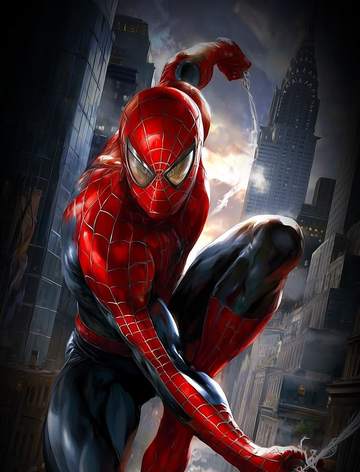
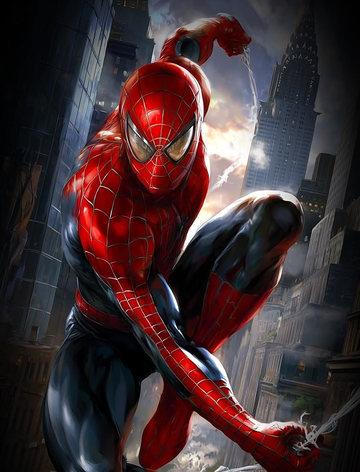
Spider-Man 2: shift portrait down to show more arm
User direction: "move the spiderman portrait a little down to see
his arm more but make sure it doesn't cut off the hand in the back."

Bumped Spider-Man 2's top-bias crop from 0.15 → 0.25 — y1 went
76 → 126, so an extra 50 px shears off the top sky / web trail
above the reaching back hand, which lets the entire body + front
arm with the web-shoot pose drop ~16 px lower in the rendered
frame. The back hand itself (which sits in the top ~20 % of the
source) keeps its full silhouette; only the empty sky above it
and the very tip of the web tail get clipped.

Cache: _CARD_ART_VERSION 27→28, ui.js → v579.

diff --git a/index.html b/index.html
@@ -719,7 +719,7 @@
   <script src="https://unpkg.com/peerjs@1.5.4/dist/peerjs.min.js"></script>
   <script src="multiplayer.js?v=5"></script>
   <script src="card-art-manifest.js?v=11"></script>
-  <script src="ui.js?v=578"></script>
+  <script src="ui.js?v=579"></script>
   <script src="logger.js?v=5"></script>
   <!-- Always-on crash capture. Hooks window.onerror +
        unhandledrejection, surfaces a "Copy bug report" button when

diff --git a/ui.js b/ui.js
@@ -13,7 +13,7 @@ const UI = {
   // cached PNGs (which don't have built-in cache busters since they're
   // referenced via background-image url() and not the index.html
   // version-suffix system). Bump this every time you regen art.
-  _CARD_ART_VERSION: 27,
+  _CARD_ART_VERSION: 28,
 
   // =====================================================================
   // CARD ART VARIANTS
